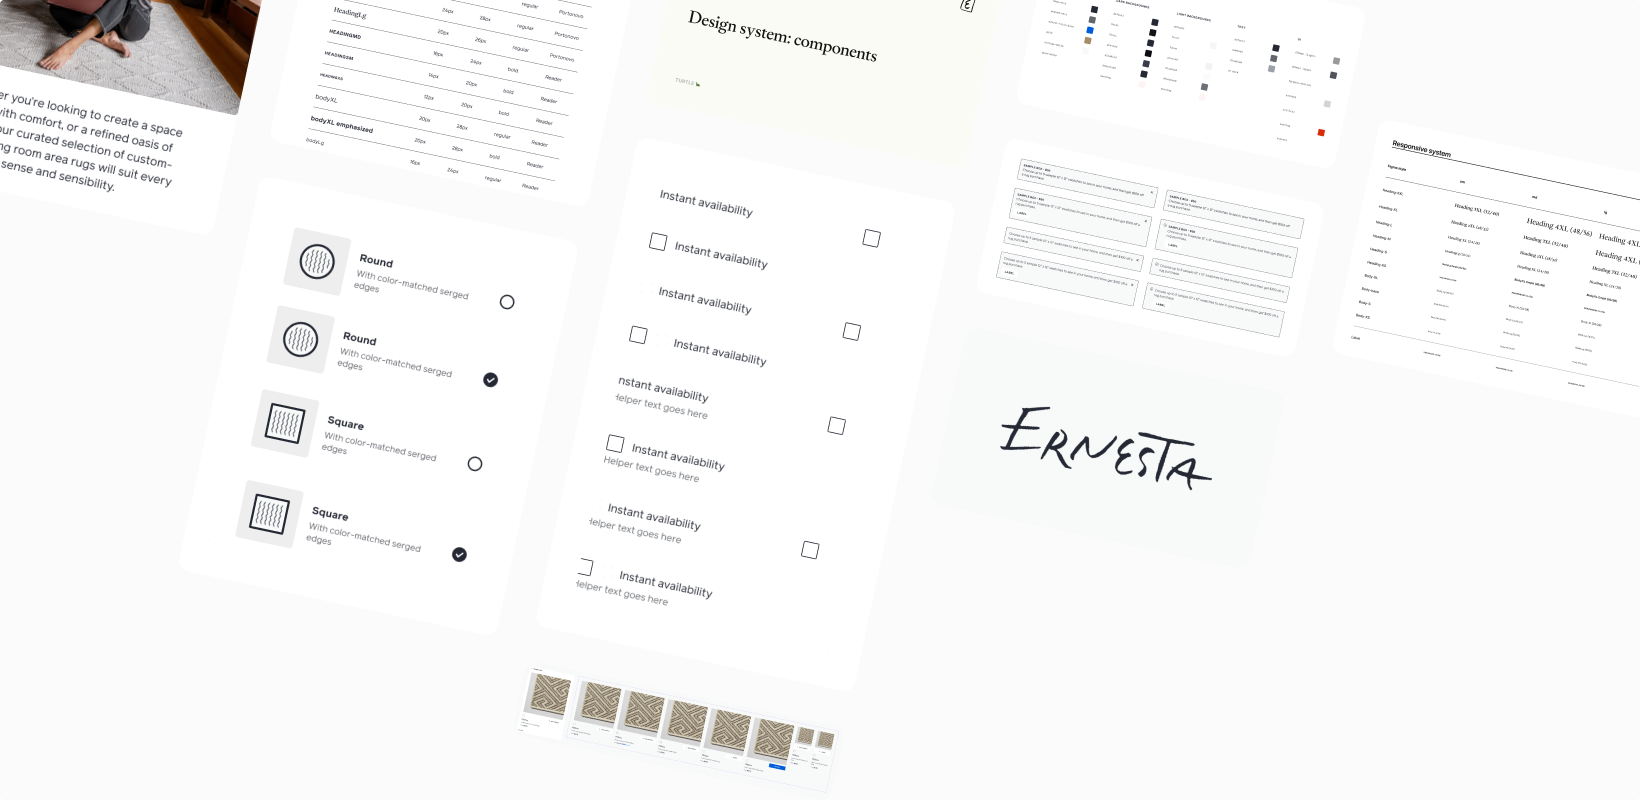
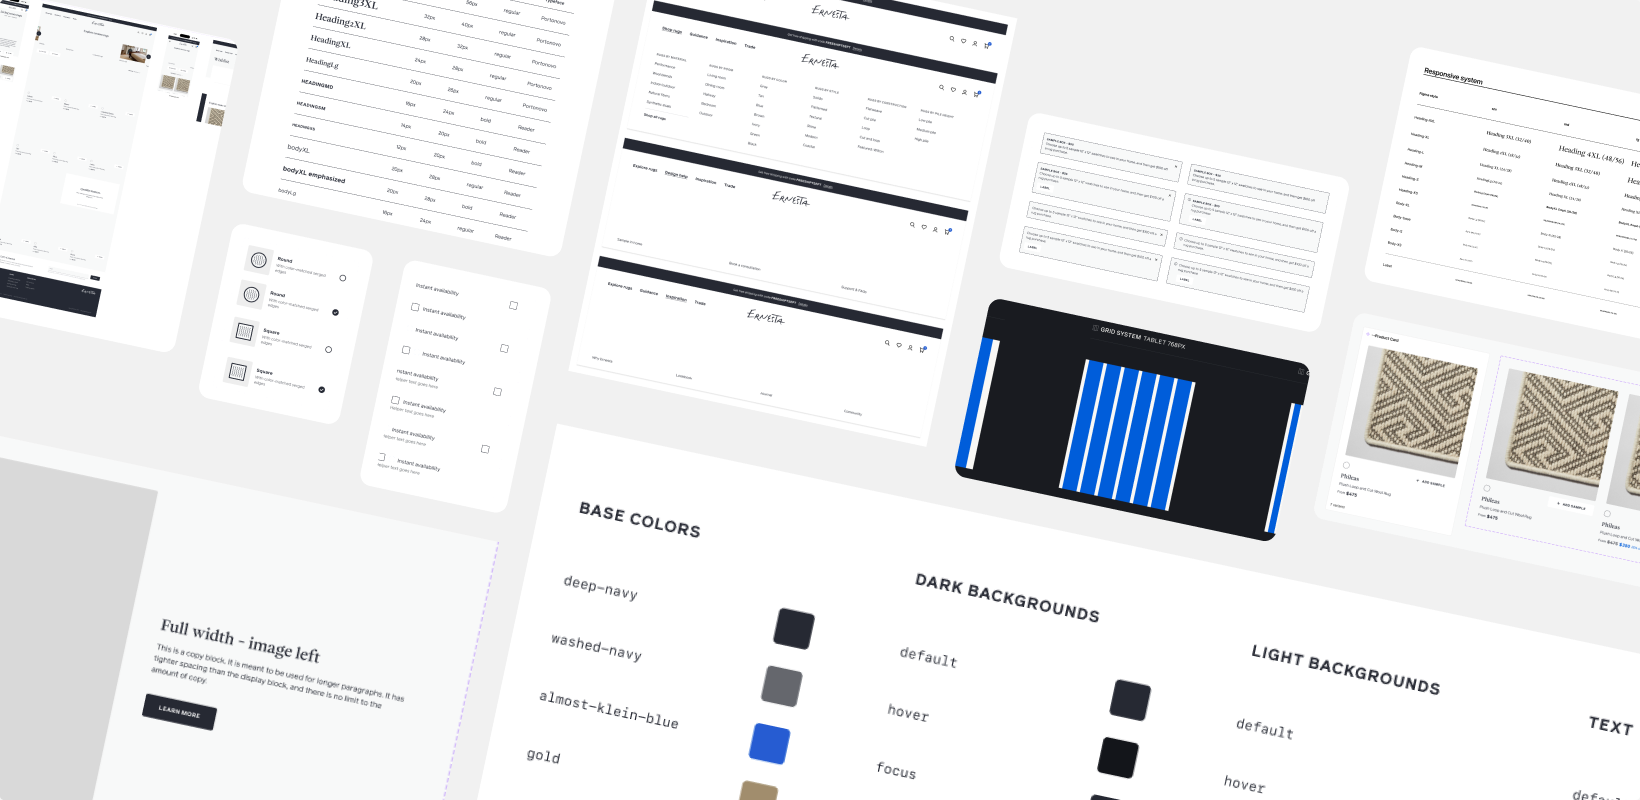
Ernesta DS: grid system, product card and input states, thumbnail with page templates and grid
Claude-Session: https://claude.ai/code/session_0195aSm2gAS1eVTkpmw1kGnH

diff --git a/index.html b/index.html
@@ -103,7 +103,7 @@ const GROUPS_RAW = [
     Object.assign(T('Commerce Tools and Post-Purchase Vision', 'Processes and People', 'assets/images/fig5-t-cxp.png', 'Instagram and Facebook logos', 'Products and resources that made us work more efficiently & consistently.', 'Processes and People'), { line2: 'Tasked with our re-engagement strategy, I helped reimagine the post-purchase experience around consistency, delight and messaging.', link2: 'Vision Work', href2: P('Vision Work') })
   ]},
   { label: 'Ernesta', pad: 112, tiles: [
-    T('A scalable, nimble, versatile Design and Product System', 'Ernesta Design System', 'assets/images/fig5-t-eds.png', 'Ernesta design system libraries', 'I designed and built the design system: foundations, components and page templates, with engineering.', undefined, true),
+    T('A scalable, nimble, versatile Design and Product System', 'Ernesta Design System', 'assets/images/fig5-t-eds.png', 'Ernesta design system: page templates, grid system and components', 'I designed and built the design system: foundations, components and page templates, with engineering.', undefined, true),
     T('Shopping Filters', 'Ernesta Filters', 'assets/images/fig5-t-efl.png', 'Ernesta filters prototype on desktop and mobile', 'Easy-to-use, relevant shopping tools built on deep cross-functional work on taxonomy and nomenclature.'),
     T('Improving internal processes', 'Ernesta Tools', 'assets/images/fig5-t-ern.png', 'Ernesta quote creator and tear sheet', 'I halved quote time on a rote but essential task, and worked around tech limits to give trade customers tear sheets.')
   ]},

diff --git a/projects/ernesta-design-system.html b/projects/ernesta-design-system.html
@@ -44,11 +44,23 @@
 
   <div style="height:var(--space-64)"></div>
 
+  <figure class="cm-fig"><img src="../assets/images/fig5-eds-g.png" alt="Grid system for desktop, tablet and mobile" width="820" height="251" loading="lazy"></figure>
+
+  <div style="height:var(--space-32)"></div>
+
   <figure class="cm-fig"><img src="../assets/images/fig5-eds-5.png" alt="Product cards" width="820" height="289" loading="lazy"></figure>
 
   <div style="height:var(--space-32)"></div>
 
   <p class="cm-beat">A nimble system of product cards, content blocks and templates helped our small team build new pages quickly.</p>
+
+  <div style="height:var(--space-64)"></div>
+
+  <figure class="cm-fig"><img src="../assets/images/fig5-eds-cs.png" alt="Product card states" width="820" height="365" loading="lazy"></figure>
+
+  <div style="height:var(--space-32)"></div>
+
+  <figure class="cm-fig"><img src="../assets/images/fig5-eds-in.png" alt="Input states: default, placeholder, on white, disabled and error" width="820" height="222" loading="lazy"></figure>
 
   <footer class="cm-footer" style="margin-top:var(--space-112)">
     <a class="cm-back" href="../index.html" style="font:var(--text-caption);color:var(--ink);border-bottom:1px solid var(--ink)">← Back to home</a>
